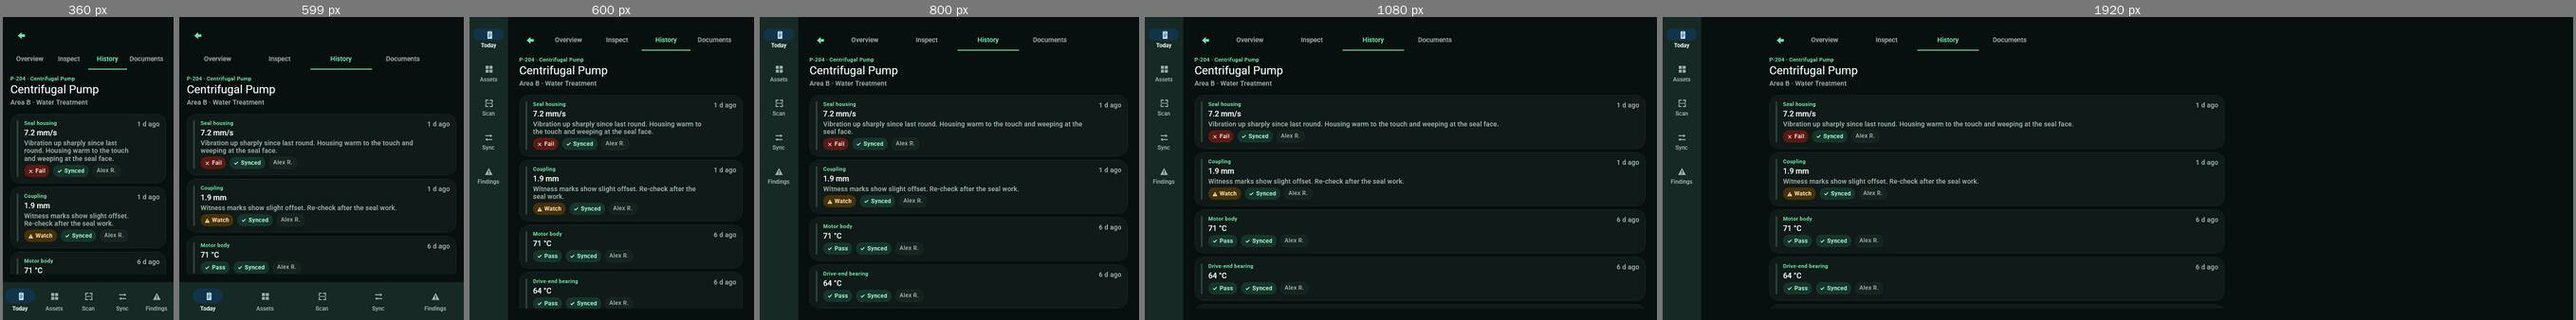
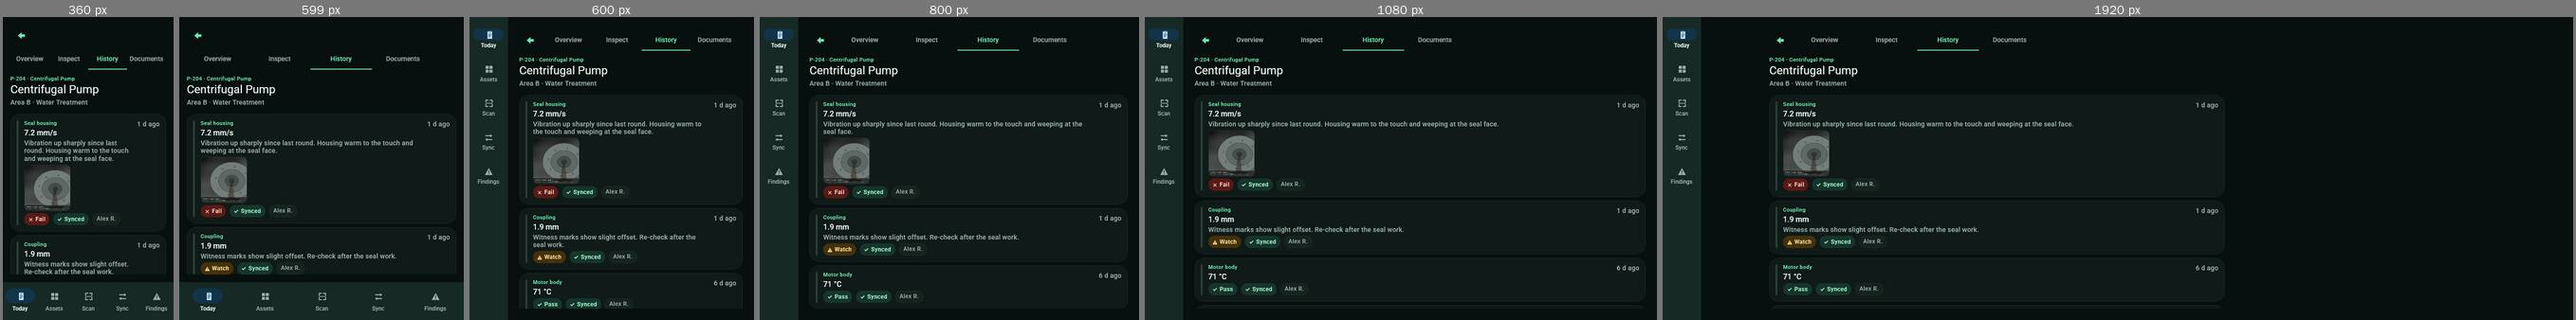
docs: the A pass in COMPLETENESS, the checklist and CLAUDE.md, with fresh evidence and a browser check
- COMPLETENESS.md: the five functional Majors under Fixed (built: duplicate action, evidence
  review, dispatch, landscape; made honest: Documents; cut: photo comparison), the pass's
  other fixes, the WebAssembly runs, and the verdict: Complete with gaps, 0 Blockers,
  0 functional Majors, 1 head Major, 8 Minors.
- COMPLETION-CHECKLIST.md, CLAUDE.md and UNO-AUDIT.md follow the new structure and rules.
- tools/wasm-check.js drives the Release WebAssembly build in headless Chromium: Today, P-204,
  Seal housing, Fail with a note, Complete, History. docs/evidence/wasm-complete-point.jpg.
- tools/evidence.sh adds Asset:Documents; the Point, History, Documents, Findings and Sync
  sheets are regenerated in Dark and Light at 360 to 1920 px (display pinned with DISPLAY_NUM).

Claude-Session: https://claude.ai/code/session_018xTsJQBTiLfieqJekJ23K3

diff --git a/tools/wasm-check.js b/tools/wasm-check.js
@@ -1,0 +1,65 @@
+// WebAssembly runtime check: drives the Release browser build of TRACE in headless Chromium
+// through one critical workflow, and saves a screenshot of each step.
+//
+//   dotnet publish Trace/Trace.csproj -f net10.0-browserwasm -c Release \
+//     -p:TraceTargetFrameworks=net10.0-browserwasm -o <publish dir>
+//   python3 -m http.server 8765 --bind 127.0.0.1 --directory <publish dir>/wwwroot &
+//   NODE_PATH=<dir holding playwright> node tools/wasm-check.js http://127.0.0.1:8765/ <out dir>
+//
+// The workflow: open P-204 from Today, open the seal housing point from the strip under the
+// machine, enter 7.6 mm/s with a note, call Fail, Complete point, then open History. The page
+// is drawn on a canvas, so the steps press at window coordinates of the 1280 x 800 layout, the
+// same layout the desktop head draws at that size. The note field is reached by keyboard first:
+// in the browser, pressing it while it is mostly scrolled out of the inspector's middle closed
+// the inspector (see docs/COMPLETENESS.md).
+const { chromium } = require('playwright');
+const path = require('path');
+
+const url = process.argv[2] ?? 'http://127.0.0.1:8765/';
+const out = process.argv[3] ?? '.';
+const sleep = ms => new Promise(r => setTimeout(r, ms));
+
+const steps = [
+  { shot: '01-today' },
+  { click: [600, 270], wait: 4000, shot: '02-asset' },
+  { click: [300, 736], wait: 3000, shot: '03-point' },
+  { click: [1055, 505] },
+  { key: 'End' }, { key: 'Backspace' }, { key: 'Backspace' }, { key: 'Backspace' },
+  { type: '7.6' },
+  { key: 'Shift+Tab' }, { key: 'Shift+Tab', wait: 1200 },
+  { click: [1053, 330] },
+  { type: 'Seal weeping at the gland, drive end vibration up.' },
+  { click: [1175, 566], wait: 2000, shot: '04-ready' },
+  { click: [1055, 729], wait: 3000, shot: '05-completed' },
+  { click: [481, 48], wait: 3000, shot: '06-history' },
+];
+
+(async () => {
+  const browser = await chromium.launch({ args: ['--use-gl=swiftshader', '--enable-unsafe-swiftshader'] });
+  const page = await browser.newPage({ viewport: { width: 1280, height: 800 } });
+  const errors = [];
+  page.on('pageerror', e => errors.push(e.message));
+  page.on('console', m => { if (m.type() === 'error') errors.push(m.text()); });
+
+  await page.goto(url, { waitUntil: 'load', timeout: 120000 });
+  await sleep(Number(process.env.SETTLE ?? 30000));
+
+  for (const s of steps) {
+    if (s.click) {
+      await page.mouse.move(s.click[0], s.click[1]);
+      await page.mouse.down();
+      await sleep(150);
+      await page.mouse.up();
+      await sleep(s.wait ?? 1500);
+    }
+    if (s.key) { await page.keyboard.press(s.key); await sleep(s.wait ?? 800); }
+    if (s.type) { await page.keyboard.type(s.type, { delay: 40 }); await sleep(s.wait ?? 1500); }
+    if (s.shot) {
+      await page.screenshot({ path: path.join(out, `${s.shot}.png`) });
+      console.log(`WASM shot ${s.shot}`);
+    }
+  }
+
+  console.log(`WASM errors ${errors.length}${errors.length ? ': ' + errors.join(' | ') : ''}`);
+  await browser.close();
+})().catch(e => { console.error(e); process.exit(1); });

diff --git a/docs/COMPLETENESS.md b/docs/COMPLETENESS.md
@@ -1,28 +1,32 @@
 # Completeness audit: TRACE (2026-11-04, Uno.Sdk 7.0.0-dev.115, heads: desktop, android, ios, windows, wasm)
 
 Audited at `1909a8b` on `feat/production-readiness`. Report mode: no code was changed.
-Blocker fix pass (2026-11-04): the one Blocker is fixed in `b9a3a9c`; see Fixed below. Nothing else was re-graded.
+Blocker fix pass (2026-11-04): the one Blocker is fixed in `b9a3a9c`; see Fixed below.
+A pass (2026-11-04, from `f2c8417`): the five functional Majors are built or cut and re-proved at runtime on
+the desktop head, and the critical workflow "inspect and complete a point" was run in Chromium on the Release
+WebAssembly build. See Fixed below.
 
-Verdict: **Complete with gaps** (0 Blockers, 5 functional Majors, 1 head Major, 9 Minors)
+Verdict: **Complete with gaps** (0 Blockers, 0 functional Majors, 1 head Major, 8 Minors)
 
-Safe to show: open any asset from Today, Assets, Scan or Findings, as many in a session as you like; inspect, fail and complete a point with a note and a photo; raise one corrective action; go offline, queue, sync, fail, retry; the empty and error states.
+Safe to show: open any asset from Today, Assets, Scan or Findings, as many in a session as you like; inspect,
+fail and complete a point with a note and a photo, in portrait or landscape; review the photos recorded at a
+point and in History; raise one corrective action per failure; dispatch and close it from Findings; go offline,
+queue, sync, fail, retry; the empty and error states; the same inspection in a browser.
 Keep off screen:
-- pressing Create corrective action a second time;
-- looking for a recorded photo in History;
-- dispatching from Findings;
-- phone landscape.
+- in the browser, pressing the Notes field while it is mostly scrolled out of the inspector (see Minors).
 
 ## Inventory
 
-Screens: 16 intended, 14 present, 0 unreachable, 2 not built (source: PRODUCT-SPEC and UNO-BUILD-SPEC).
+Screens: 16 intended, 15 present, 0 unreachable, 1 not built (source: PRODUCT-SPEC and UNO-BUILD-SPEC).
 - The 16 are 6 destinations, 4 asset tabs and 6 transient layers.
-- Not built: the evidence viewer (Missing) and the sync conflict dialog (N/A while there is no server; see Unresolved Questions).
+- The evidence viewer is built (A pass). Not built: the sync conflict dialog (N/A while there is no server; see
+  Unresolved Questions).
 
 Routes: 7 registered (`Main` and 6 nested), 15 triggers, 0 dead references.
 - The triggers are 2 × 5 shell tabs, 3 `Navigation.Request="../Asset"`, Scan's `NavigateRouteAsync` and the asset's Back.
 - 0 are broken. (`Asset` lives in the Visibility region and was not rebuilt for new data; fixed in `b9a3a9c`.)
 
-Interactions: about 60 found (33 commands, 3 navigation requests, 5 text boxes, 2 combo boxes, 24 tab items, Reset view, drag to orbit, feed Retry).
+Interactions: about 66 found (37 commands, 3 navigation requests, 5 text boxes, 2 combo boxes, 24 tab items, Reset view, drag to orbit, feed Retry, and the A pass's Dispatch/Close and photo thumbnails).
 - 0 are dead by construction.
 - 3 are simulated by design: Scan a tag, Simulate denial, Open settings.
 
@@ -39,34 +43,34 @@ Critical workflows (derived from the spec's primary workflows):
 
 | # | Area | Status | Evidence | Blockers | Majors | Minors | Note |
 |---|---|---|---|---|---|---|---|
-| 1 | Screens | Missing | R | 0 | 2 | 0 | No evidence review or viewer. The Documents list is a fixed string. |
+| 1 | Screens | Complete | R | 0 | 0 | 0 | Recorded photos show in History, on the point and in a viewer. Documents shows the nameplate and the inspection plan. |
 | 2 | Navigation | Complete | R | 0 | 0 | 0 | Every asset opens its own workspace from Today, Assets, Scan and Findings, and Back returns to where it was opened (fixed `b9a3a9c`). |
-| 3 | Interactions | Broken | R | 0 | 2 | 1 | A corrective action can be raised twice. No dispatch controls. |
-| 4 | Logic | Complete | R | 0 | 0 | 1 | Fail rule, range, idempotent completion and action inheritance are proven. At-risk list is not worst first. |
-| 5 | Data | Complete | R | 0 | 0 | 1 | Writes, evidence file, relaunch and journal (tests) are proven. An action can sync before its source event. |
-| 6 | States | Complete | R | 0 | 0 | 0 | Error and Retry, empty, asset unavailable, offline, pending, sync failed, camera denied, validation and success are all proven. Loading is C. |
+| 3 | Interactions | Complete | R | 0 | 0 | 1 | One corrective action per failure; Dispatch and Close in Findings. A single photo cannot be removed from a draft. |
+| 4 | Logic | Complete | R | 0 | 0 | 0 | Fail rule, range, idempotent completion and action raising, action inheritance and the status steps are proven. |
+| 5 | Data | Complete | R | 0 | 0 | 1 | Writes, evidence file, relaunch, journal and old action statuses (tests) are proven. An action can sync before its source event. |
+| 6 | States | Complete | R | 0 | 0 | 0 | Error and Retry, empty, asset unavailable, offline, pending, sync failed, camera denied, validation, draft not saved, records unreadable on Scan and success are proven. Loading is C. |
 | 7 | Forms | Complete | R | 0 | 0 | 0 | Numeric reading, Fail needs note or photo, summary required, priority and assignee. |
 | 8 | Authentication | N/A | C | 0 | 0 | 0 | No accounts in the spec; the technician name comes from config. |
-| 9 | Responsive/adaptive UI | Broken | R | 0 | 1 | 0 | Phone landscape clips Complete point. |
+| 9 | Responsive/adaptive UI | Complete | R | 0 | 0 | 1 | Phone landscape scrolls the inspector as one (fixed). The machine is small in landscape. |
 | 10 | Platform behavior | Simulated (by design) | C | 0 | 0 | 0 | Camera, QR/NFC, network and sync transport sit behind interfaces. |
-| 11 | Failure handling | Partial | C | 0 | 0 | 2 | Photo save and action create have no IO catch. No global handler. |
-| 12 | Accessibility | Complete (unproven) | C | 0 | 0 | 0 | Names on every control read. Focus walk not re-run. |
+| 11 | Failure handling | Complete | R | 0 | 0 | 1 | Every store write and read a command makes is caught and said on screen. No global handler. |
+| 12 | Accessibility | Complete | R | 0 | 0 | 1 | 21.3 names per 1,000 XAML lines; keyboard walk reaches every control; modal layers take focus. Three Toolkit parts are empty tab stops. |
 | 13 | Performance | Partial | R | 0 | 0 | 0 | Idle CPU 0–0.3 % on the 3D view. Debug start 3.1 s. Release start X. |
 | 14 | Security/privacy | Complete | C | 0 | 0 | 0 | No secrets. Debug hooks and the fault store are inside `#if DEBUG`. |
-| 15 | Visual quality | Partial | R | 0 | 0 | 3 | Raw type names on Sync, "Priya S..", markers overlap at 390 px. |
-| 16 | Testing | Partial | R | 0 | 0 | 1 | 87 passed, 1 skipped. No UI or workflow tests; the `Switch` Debug hook now opens four assets in one launch. Four heads X. |
+| 15 | Visual quality | Partial | R | 0 | 0 | 1 | Markers overlap at 390 px. (Raw type names on Sync and "Priya S.." fixed.) |
+| 16 | Testing | Partial | R | 0 | 0 | 1 | 136 passed, 1 skipped, including the page models. No UI tests; the Debug hooks and the browser script drive the workflows. |
 
 ## Critical workflows by head
 
 | Workflow | desktop | android | ios | windows | wasm | Status |
 |---|---|---|---|---|---|---|
-| 1. Open assigned asset | R | X | X | X | X | Complete |
-| 2. Inspect and complete a point | R | X | X | X | X | Complete |
-| 3. Fail to corrective action to Findings | R | X | X | X | X | Partial |
+| 1. Open assigned asset | R | X | X | X | R | Complete |
+| 2. Inspect and complete a point | R | X | X | X | R | Complete |
+| 3. Fail to corrective action to Findings | R | X | X | X | X | Complete |
 | 4. Offline queue, sync, retry | R | X | X | X | X | Complete (simulated transport, by design) |
 | 5. Search or tag code, open asset | R | X | X | X | X | Complete |
-| 6. History: measurements and photos | R | X | X | X | X | Partial |
-| 7. Supervisor review and dispatch | R | X | X | X | X | Partial |
+| 6. History: measurements and photos | R | X | X | X | R | Complete (comparison cut, D-002) |
+| 7. Supervisor review and dispatch | R | X | X | X | X | Complete |
 
 How each desktop result was proven:
 1. At the audit: AHU-12 opened first and showed AHU-12. Back, tap C-07: AHU-12 showed. Back, tap P-204: AHU-12 showed. Reproduced in two sessions. After the fix: each asset shows itself; see Fixed.
@@ -84,7 +88,15 @@ How each desktop result was proven:
 6. A new event shows with its reading, note, Fail and Pending, but no photo or evidence marker.
 7. Corrective work and at-risk assets are listed. Tapping a work row changes nothing, and no control changes assignee or status.
 
-The other heads are X: the container cannot run Android, iOS or WinAppSDK (CI builds them), and WebAssembly was not run in this pass.
+A pass, desktop (Debug, Xvfb :465, software renderer, real pointer and keyboard):
+3. Created by pointer: the button is gone after Create and `actions.json` holds one action for the event; a second request in the workflow resolves to it (test).
+6. History lists the seeded seal failure with its photo; the point shows "Photos recorded 1 d ago"; either thumbnail opens the viewer, and Close closes it.
+7. Findings at 1280 and 390 px: Dispatch on the new action and Close on the seeded one, by pointer. `actions.json` reads Dispatched and Closed, `sync-queue.json` gained two `update` operations, and Sync lists them as Action status.
+
+WebAssembly (Release `net10.0-browserwasm`, headless Chromium 1280 x 800, `tools/wasm-check.js`): Today, P-204,
+Seal housing, 7.6 mm/s with a note, Fail, Complete point: the confirmation, the Sync badge (1) and the new History
+entry (Fail, Pending) showed. `docs/evidence/wasm-complete-point.jpg`. Android, iOS and WinAppSDK stay X: the
+container cannot run them (CI builds them).
 
 ## Findings
 
@@ -109,48 +121,61 @@ None open. The one found at the audit is under Fixed.
   - No unit test: the bug lives in the navigator's view-model reuse on a XAML region child, which the `net10.0` test project cannot host. The `Switch` hook covers it instead.
   - Owner: uno-navigation.
 
+### Fixed in the A pass (2026-11-04)
+The five functional Majors, each built or cut under the owner rule "build small, cut large". Cuts and calls are
+recorded as proposed in `docs/DECISIONS.md`.
+- [Interactions] **Duplicate corrective action: fixed** in `e8e840b`. The workflow raises one action per source
+  inspection (a repeat resolves to it and writes nothing, checked again inside the store lock), and the inspector
+  stops offering Create once the sheet has raised it. Tests: `Raising_work_twice_from_one_inspection_keeps_one_action`,
+  `Once_work_is_raised_from_an_inspection_it_is_not_offered_again`. R: after Create the button is gone and
+  `actions.json` holds one action for the event. The "Priya S.." confirmation is fixed with it.
+- [Screens] **Evidence review: built; comparison cut** in `e000f6c` (D-002). Photos show on their History entry,
+  as "Photos recorded" on the point, and full size in a viewer. No copy offers comparison. The seed's seal failure
+  carries a bundled sample photo. Tests: `RecordedEvidenceTests`, `A_recorded_photo_opens_full_size_and_closes`. R.
+- [Interactions] **Supervisor dispatch: built** in `870b897` (D-001). Open → Dispatched → Closed from each Findings
+  row, persisted with an `update` sync operation; a second tap takes one step. Earlier builds' statuses still load.
+  Tests: `ActionDispatchTests`, `SupervisorFindingsModelTests`. R at 1280 and 390 px.
+- [Screens] **Documents: made honest** in `11964e3` (D-003). The fixed "Manuals and drawings sync" tile is gone; the
+  tab shows the nameplate and the inspection plan the device holds. R in Dark at 1280 px and Light at 390 px.
+- [Responsive] **Phone landscape: fixed** in `7c6690e`. When its pinned parts do not fit (about 200 px at 800 x 360
+  and 844 x 390), the inspector scrolls as one; 360 x 640 stays pinned. R: at both landscape sizes the validation
+  message and Complete point were reached by keyboard (Fail, then End). The mouse wheel scrolls no ScrollViewer
+  under this Xvfb setup, Findings and History included, so it could not be used as the check.
+
+Also fixed in the pass:
+- [Failure handling] Opening a point, the draft autosave, Discard, and Scan's Scan a tag and Open asset report
+  store failures on screen (`cab8cd2`, with tests).
+- [Logic] Assets needing attention are listed failed first (`870b897`, test).
+- [Visual] Sync rows name the change (Inspection, Corrective action, Action status) instead of raw type names
+  (`870b897`).
+- [Accessibility] 65 automation names in 3,047 XAML lines (21.3 per 1,000, from 16.8); chips and headers read as
+  their text; the action sheet and the photo viewer take focus and keep Tab inside (`532b805`). Keyboard walk with
+  `--trace-focus=log` on every destination and asset tab at 1280 px and on Inspect at 390 px reaches every control.
+
 ### Majors (functional)
-- [Interactions] Create corrective action is offered again after success, and a second Create writes a duplicate action and sync operation.
-  - Where: `AssetModel.cs:466`, where `RecordedEvent` is kept after success, and `InspectionWorkflow.RaiseCorrectiveActionAsync`, which does not check for an existing action from that event.
-  - Evidence: R. `actions.json` held two actions with source `ev-a65ec14d…`, and Findings showed both.
-  - Owner: mvux.
-- [Screens] Evidence review is missing. A photo shows only in the draft; once the point is completed, it is never shown again.
-  - Where: History has no evidence (`AssetPage.xaml:381-451`), and there is no evidence viewer.
-  - Spec: Must Have "Evidence capture/review", the "Evidence viewer" layer, and the workflow "compare previous measurements and photos".
-  - Evidence: R.
-  - Owner: mvux.
-- [Interactions] Supervisor dispatch is missing.
-  - Where: Findings rows have no command (`SupervisorFindingsPage.xaml:56-97`), and nothing moves `ActionStatus` past creation.
-  - The empty-state copy says actions "appear here for dispatch".
-  - Spec workflow: "Supervisor reviews failed/watch findings → dispatches work".
-  - Evidence: R.
-  - Owner: mvux.
-- [Screens] The Documents tab is Simulated.
-  - The nameplate is real data. The documents section is one fixed string for every asset, "Manuals and drawings sync with the asset record", but the app has no document model or sync (`AssetPage.xaml:496-503`).
-  - Evidence: C and R.
-  - Owner: mvux.
-- [Responsive] In phone landscape (800×360, 844×390), the docked inspector's pinned footer clips below Pass/Watch/Fail. Validation and Complete point are off screen, and the wheel does not reach them (`PointInspector.xaml:212`, `Auto` row).
-  - Evidence: R.
-  - Owner: uno-toolkit.
+None open.
 
 ### Majors (head)
-- Android (Tier 1), Windows WinAppSDK (Tier 1), iOS and WebAssembly (Tier 2): every critical workflow is X. CI builds them; none was run.
+- Android (Tier 1), Windows WinAppSDK (Tier 1) and iOS (Tier 2): no critical workflow was run (X). CI builds them.
+  WebAssembly (Tier 2) ran workflows 1, 2 and 6 in Chromium in the A pass.
 
 ### Minors
-- [Interactions] A single photo cannot be removed from a draft; only Discard all. `PointInspector.xaml:170`. C.
-- [Logic] "Assets needing attention" lists Watch before Fail; the model says "worst first". `SupervisorFindingsModel.cs:29`. R.
+- [Interactions] A single photo cannot be removed from a draft; only Discard all. `PointInspector.xaml`. C.
 - [Data] A corrective action syncs while its source event's upload has failed (queue: action Synced, event Failed). This would break referential order against a real server. R.
-- [Failure handling] `AttachPhoto` and `CreateAction` have no IO catch, unlike `CompletePoint`, so a failed write says nothing. `AssetModel.cs:365`, `:450`. C.
 - [Failure handling] There is no `UnhandledException` / `UnobservedTaskException` handler. C.
-- [Visual] Sync rows show the raw type names `CorrectiveAction` and `InspectionEvent`. R.
-- [Visual] The confirmation reads "assigned to Priya S.." with a doubled period. R.
 - [Visual] At 390 px the Inspect view's markers overlap each other and the asset title. R.
-- [Testing] There are no UI or integration tests for the workflows (UNO-BUILD-SPEC asks for them). The verification hooks opened only P-204, once, so the Blocker went unseen; `--trace-route=Switch` now opens four assets in one launch. C.
+- [Responsive] In phone landscape the docked machine is about 135 px tall under its nameplate and Reset view plates. R.
+- [Accessibility] The root ContentControl, the Toolkit's `TabBarSelectionIndicatorPresenter` and `SafeAreaPresenter` are empty tab stops (their styles are set inside the Toolkit's templates, so an implicit style does not reach them). R.
+- [WebAssembly] In the browser, after editing the reading and calling Fail, pressing the Notes field while it is mostly scrolled out of the inspector's middle closed the inspector (the draft is kept). Pressing it once it is in view, or reaching it by keyboard, works; the desktop head does not do this. R (Chromium). Cause not found.
+- [Testing] There are no UI tests for the workflows (UNO-BUILD-SPEC asks for them). The page models are tested, and the Debug hooks and `tools/wasm-check.js` drive the workflows at runtime. C.
+
+### Pending owner question (unchanged)
+- The set-aside warning on Sync shows only once. The behaviour is left as it is.
 
 ## Not checked (X)
-- Android, iOS, WinAppSDK and WebAssembly runs: the container cannot run them, and WASM was skipped for time. Run workflows 1–7 on a device, the Windows head and a browser.
+- Android, iOS and WinAppSDK runs: the container cannot run them. Run workflows 1–7 on a device and the Windows head.
 - Release cold start: only Debug was timed (3.1 s to the round). Time `-c Release` to the round.
-- A keyboard focus walk and a screen reader: not re-run in this pass. Run `--trace-focus=log` and Narrator or TalkBack.
+- A screen reader: names and focus order were checked with `--trace-focus=log`, not with Narrator or TalkBack.
 - The Loading state on screen: the store loads too fast to capture. A slow-store fault mode would show it.
 
 ## By-design simulation (not findings)
@@ -159,13 +184,11 @@ None open. The one found at the audit is under Fixed.
 - Camera denial is reachable through "Simulate denial", and recovery flips the simulated permission.
 
 ## Noted for other skills
-- uno-audit: `AssetModel` (12 dependencies, ~500 lines) carries tabs, editor, camera, actions and navigation. `Points` and `WatchPointHistory` are unused.
+- uno-audit: `AssetModel` is split (A pass): the workspace (154 lines before the viewer), `PointInspectorModel` and `CorrectiveActionSheetModel`.
 - gold-standard-pass: the narrow Inspect composition (machine, markers and title fight for 220 px).
 
 ## Unresolved Questions
 - Authentication is N/A: the spec has no accounts, and the technician comes from `AppConfig`. Confirm that a single technician per device is intended.
 - The sync conflict dialog (spec "Offline conflict dialog", `SyncConflictDialog`) is N/A while the transport is simulated, because nothing can conflict. Confirm, or build it with a fake conflict mode.
-- Dispatch in Findings: the spec names it as a primary workflow but not in the Must Have list. It is graded a functional Major; confirm it is in scope.
-- The workflows above are derived from PRODUCT-SPEC's primary workflows. Workflow 7 counts as Partial because review works and dispatch does not.
-- Phone landscape: the spec makes portrait the default task surface, and the checklist claims rotation keeps work on screen. Is landscape inspection required?
-- Every X on a supported head: Android and Windows (Tier 1), iOS, and WebAssembly (Tier 2).
+- Dispatch is built as one status step at a time (D-001, proposed); evidence comparison and document sync are cut (D-002, D-003, proposed). Confirm.
+- Every X on a supported head: Android and Windows (Tier 1) and iOS.

diff --git a/CLAUDE.md b/CLAUDE.md
@@ -32,12 +32,12 @@ Written specs win over the prototype. Complete Must Have before Nice to Have.
   - `Trace/Domain/` — `Models/` (immutable records: Asset, Assignment, InspectionPoint, InspectionEvent, Evidence, CorrectiveAction, SyncOperation), `Enums/` (Disposition, SyncState, EvidenceType, CorrectivePriority, ActionStatus), `Rules/` (reading validation, Fail-requires-evidence, idempotent completion)
   - `Trace/Services/` — application service interfaces + simulated implementations (IAssetRepository, IInspectionRepository, ISyncQueue, INetworkStatusService, ICameraService, IAssetScanService, …)
   - `Trace/Infrastructure/` — `Persistence/`, `Repositories/`, `Platform/`, `Seed/` (P-204 pump scenario per UNO-BUILD-SPEC). The store keeps one JSON file per section under `LocalFolder/trace`; a mutation that changes several sections goes through a journal (`commit.json`, `StoreCommit`) so it lands whole, and a file that cannot be read is renamed `<file>.unreadable-<time>`, kept, and reported on Sync. Evidence photos are referenced as `ms-appdata:///local/trace/…`.
-  - `Trace/Presentation/` — pages, MVUX models, sheets/dialogs (TodayPage, AssetPage, SyncPage, SupervisorFindingsPage + subviews)
+  - `Trace/Presentation/` — pages, MVUX models, sheets/dialogs (TodayPage, AssetPage, SyncPage, SupervisorFindingsPage + subviews). The asset workspace is three models: `AssetModel` (the asset, its tabs, markers, history, findings, the photo viewer and Back) composes `PointInspectorModel` (the inspection at the open point, bound to `Controls/PointInspector`) and `CorrectiveActionSheetModel` (bound to `Controls/CorrectiveActionSheet`). `AssetViewModel.cs` adds the parts' generated view models to the page's (`Inspector`, `ActionSheet`); those partials carry `[ReactiveBindable(false)]` so MVUX does not take them for models.
   - `Trace/Presentation/Scene3D/` — the CPU 3D pipeline over SkiaSharp: `SceneRenderer`, `SceneCamera`, parametric `EquipmentModels`, and `GltfEquipmentLoader` for real assets (`docs/REAL-ASSETS-SPEC.md`)
   - `Trace/Assets/Models/` — bundled glTF equipment (`p-204.glb`, regenerated by the explicit test `Export_the_bundled_pump_asset`)
   - `Trace/Themes/` — `Tokens.xaml` (spacing 4/8/12/16/24/32 plus 2, insets per width category, max widths, radii 8/10/14/18, icon and field sizes; literals only), `ColorTokens.xaml` (Light/Dark theme brushes beyond the Material palette: the colour tokens, the only hex outside the generated palette), `Styles.xaml` (surfaces, text roles, the shared feed progress/error templates), marker and disposition templates, icons, converters. Pages and controls carry no hex colours and no literal spacing or sizes.
   - `Trace/Styles/` — the DSP colour override only (`ColorPaletteOverride.json` → `.xaml`)
-- `Trace.Tests/` — unit tests (`net10.0`) for domain rules, the store, the workflows, and the asset workspace's model (`AssetModelTests`, driven over `TestHarness`'s temp store)
+- `Trace.Tests/` — unit tests (`net10.0`) for domain rules, the store, the workflows, dispatch, and the page models (`AssetModelTests`, `PointInspectorModelTests`, `CorrectiveActionSheetModelTests`, `SupervisorFindingsModelTests`, `ScanModelTests`, `SyncModelTests`), driven over `TestHarness`'s temp store; the app grants them its internals (`InternalsVisibleTo`)
 - `docs/` — the product handoff package (specs, checklist, design graph)
 - `prototype/` — runnable HTML interaction reference
 
@@ -50,6 +50,8 @@ Note: there is deliberately no `Application/` folder — a `Trace.Application` n
 - Offline completion commits locally first; sync status is explicit, never inferred.
 - Duplicate completion is idempotent.
 - Corrective action inherits asset, point and source inspection event.
+- One failed inspection raises one corrective action; a repeated request resolves to it.
+- Corrective work moves Open → Dispatched → Closed from Findings (`IActionDispatch`), one step per request, each with its own sync operation (docs/DECISIONS.md D-001).
 
 ## Build & Verify
 
@@ -58,6 +60,8 @@ Note: there is deliberately no `Application/` folder — a `Trace.Application` n
 - Build gate (`Directory.Build.props`): warnings are errors, `.editorconfig` style is enforced in the build, NuGet audit and trim-analysis warnings stay warnings. CI (`.github/workflows/ci.yml`) runs the tests, desktop publishes for win/linux/mac, the WinAppSDK build check, WebAssembly, Android and an iOS simulator build.
 - Debug-only: Uno.Sdk 7.0.0-dev.115's Hot Design and App MCP clients crash Debug launches (they reference `Uno.UI.Lottie`, which Uno 7 no longer ships), so `Trace.csproj` turns both off and defines `NO_UNO_STUDIO`; remove that block once a dev build fixes it.
 - Runtime verification in this container: `tools/run-desktop.sh <out.png> [w] [h] [settle] [steps…]` (Xvfb + xdotool + capture; `TRACE_RESET=1` clears the store and the theme preference; `TRACE_ARGS` passes the hooks below). `tools/evidence.sh <work dir>` runs every route in Dark and Light at 360/599/600/800/1080/1920 × 640 through `tools/matrix.sh` (one launch, live-resized) and writes contact sheets to `docs/evidence/`. Both set `TRACE_X11_RENDERER=software`: under Xvfb, Mesa's llvmpipe OpenGL leaves parts of the window unpainted. The `uno-app` MCP registered in `.mcp.json` exposes no tools here (it needs a signed-in Uno account), so these scripts are the verification path on this box; `uno_app_start` applies on the Windows machine.
+- WebAssembly check: publish Release `net10.0-browserwasm`, serve `wwwroot`, then `NODE_PATH=<playwright> node tools/wasm-check.js <url> <out dir>` drives Today → P-204 → Seal housing → Fail with a note → Complete → History in headless Chromium and saves each step (`docs/evidence/wasm-complete-point.jpg`). `DISPLAY_NUM=<n>` pins the Xvfb display for `run-desktop.sh`, `matrix.sh` and `evidence.sh` on a shared machine.
+- Product decisions the specs leave open are in `docs/DECISIONS.md` (proposed until the owner confirms).
 - Debug-only verification hooks (`App.Verification.cs`, never in Release): `--trace-theme=light|dark`, `--trace-route=Today|Assets|Scan|Sync|Findings|Asset[:Overview|Inspect|History|Documents]|Point|Discard|Action|Again|Photo|Switch` (`Switch` opens AHU-12, C-07, P-204 and C-07 by code in one launch, with Back after each, records a reading on the second, and prints `VERIFY switch result=pass|fail`), `--trace-from=Assets|Scan|Sync|Findings` (open the asset from there), `--trace-back=1` (press the asset's Back, print where it landed), `--trace-seed=empty`, `--trace-fault=load` (store reads fail for 20 s; Try again recovers after; with an asset route, the Inspect error state), `--trace-focus=log`. Each prints `VERIFY …` lines to stderr.
 - Android needs the `android` .NET workload (`dotnet workload restore`) plus an Android SDK and JDK; WebAssembly needs `wasm-tools`. The WinAppSDK head builds on Windows and the iOS head on macOS (CI covers both).
 - App MCP: `.mcp.json` registers the `uno-app` devserver — start sessions rooted in this folder so it loads; on a machine where it exposes tools, launch the app with `uno_app_start`, not bare `dotnet run`.

diff --git a/docs/COMPLETION-CHECKLIST.md b/docs/COMPLETION-CHECKLIST.md
@@ -49,6 +49,10 @@ Items that cannot be checked in this container are listed under "Not verified he
 - [x] Summary is required.
 - [x] Confirmation is shown after creation.
 - [x] The action remains present after navigating away and returning.
+- [x] One failure raises one action: once raised, Create corrective action is not offered for that
+      inspection again, and a repeated request in the workflow resolves to the first action (tests).
+- [x] Findings dispatches and closes an action (Open → Dispatched → Closed), one step per tap,
+      each step persisted and queued to sync (tests; pointer at 1280 and 390 px).
 
 ## Evidence
 - [x] Evidence surface can be opened from the inspection point.
@@ -58,6 +62,8 @@ Items that cannot be checked in this container are listed under "Not verified he
 - [x] At least one realistic example image is shown.
 - [x] Long notes wrap without covering actions.
 - [x] Empty evidence state is explicit.
+- [x] Recorded photos show again: on their History entry, as "Photos recorded" on the point, and
+      full size in a viewer that either thumbnail opens (tests; pointer at 1280 px).
 
 ## Offline and persistence
 - [x] Toggling offline does not block inspection completion.
@@ -114,6 +120,8 @@ Items that cannot be checked in this container are listed under "Not verified he
 - [x] Resizing or rotating keeps the asset and a half-entered reading on screen.
       (Live resize 360 → 599 → 600 → 800 → 360 → 1080 with a reading in progress.)
 - [x] No horizontal scrolling is required for core task flow.
+- [x] Phone landscape (800 × 360, 844 × 390): the inspector scrolls as one, so the validation
+      message and Complete point stay reachable (reached by keyboard at both sizes).
       (The point chip strip scrolls sideways by design; nothing else does.)
 
 ## Product polish
@@ -127,9 +135,9 @@ Items that cannot be checked in this container are listed under "Not verified he
 
 ## Not verified here
 
-- **Android, iOS, WebAssembly and Windows heads.** Release builds of the Android and
-  WebAssembly heads compile here with zero warnings; the iOS and WinAppSDK heads compile
-  only in CI (`.github/workflows/ci.yml`). None of the four has been run: the desktop head
-  is the only one exercised at runtime on this machine.
+- **Android, iOS and Windows heads.** The iOS, WinAppSDK and Android heads compile in CI
+  (`.github/workflows/ci.yml`); none has been run here. The Release WebAssembly build was run
+  in headless Chromium (`tools/wasm-check.js`): a point inspected, failed with a note and
+  completed, and the History entry seen (`docs/evidence/wasm-complete-point.jpg`).
 - **Real hardware.** Camera, tag scanning, network state and the sync transport are
   deterministic simulations behind interfaces in `Services/`.

diff --git a/docs/UNO-AUDIT.md b/docs/UNO-AUDIT.md
@@ -213,6 +213,9 @@ test over `BreakableFileStore` (`Trace.Tests/TestHarness.cs`):
 
 ## Remaining
 
+Update (A pass, 2026-11-04): the `AssetModel` split and the unguarded store paths below are done (`0bb3835`,
+`cab8cd2`), and FluentAssertions is on 7.2.2 (`0b34d92`, owner decision). The other items stand.
+
 - **`AssetModel` carries the whole workspace:** 530 lines and 12 dependencies, holding tabs, the point editor and
   draft, evidence and camera, corrective action, and Back.
   - A split along those seams (an `InspectionEditor` and an `ActionSheet` behind the page model, with the tests
